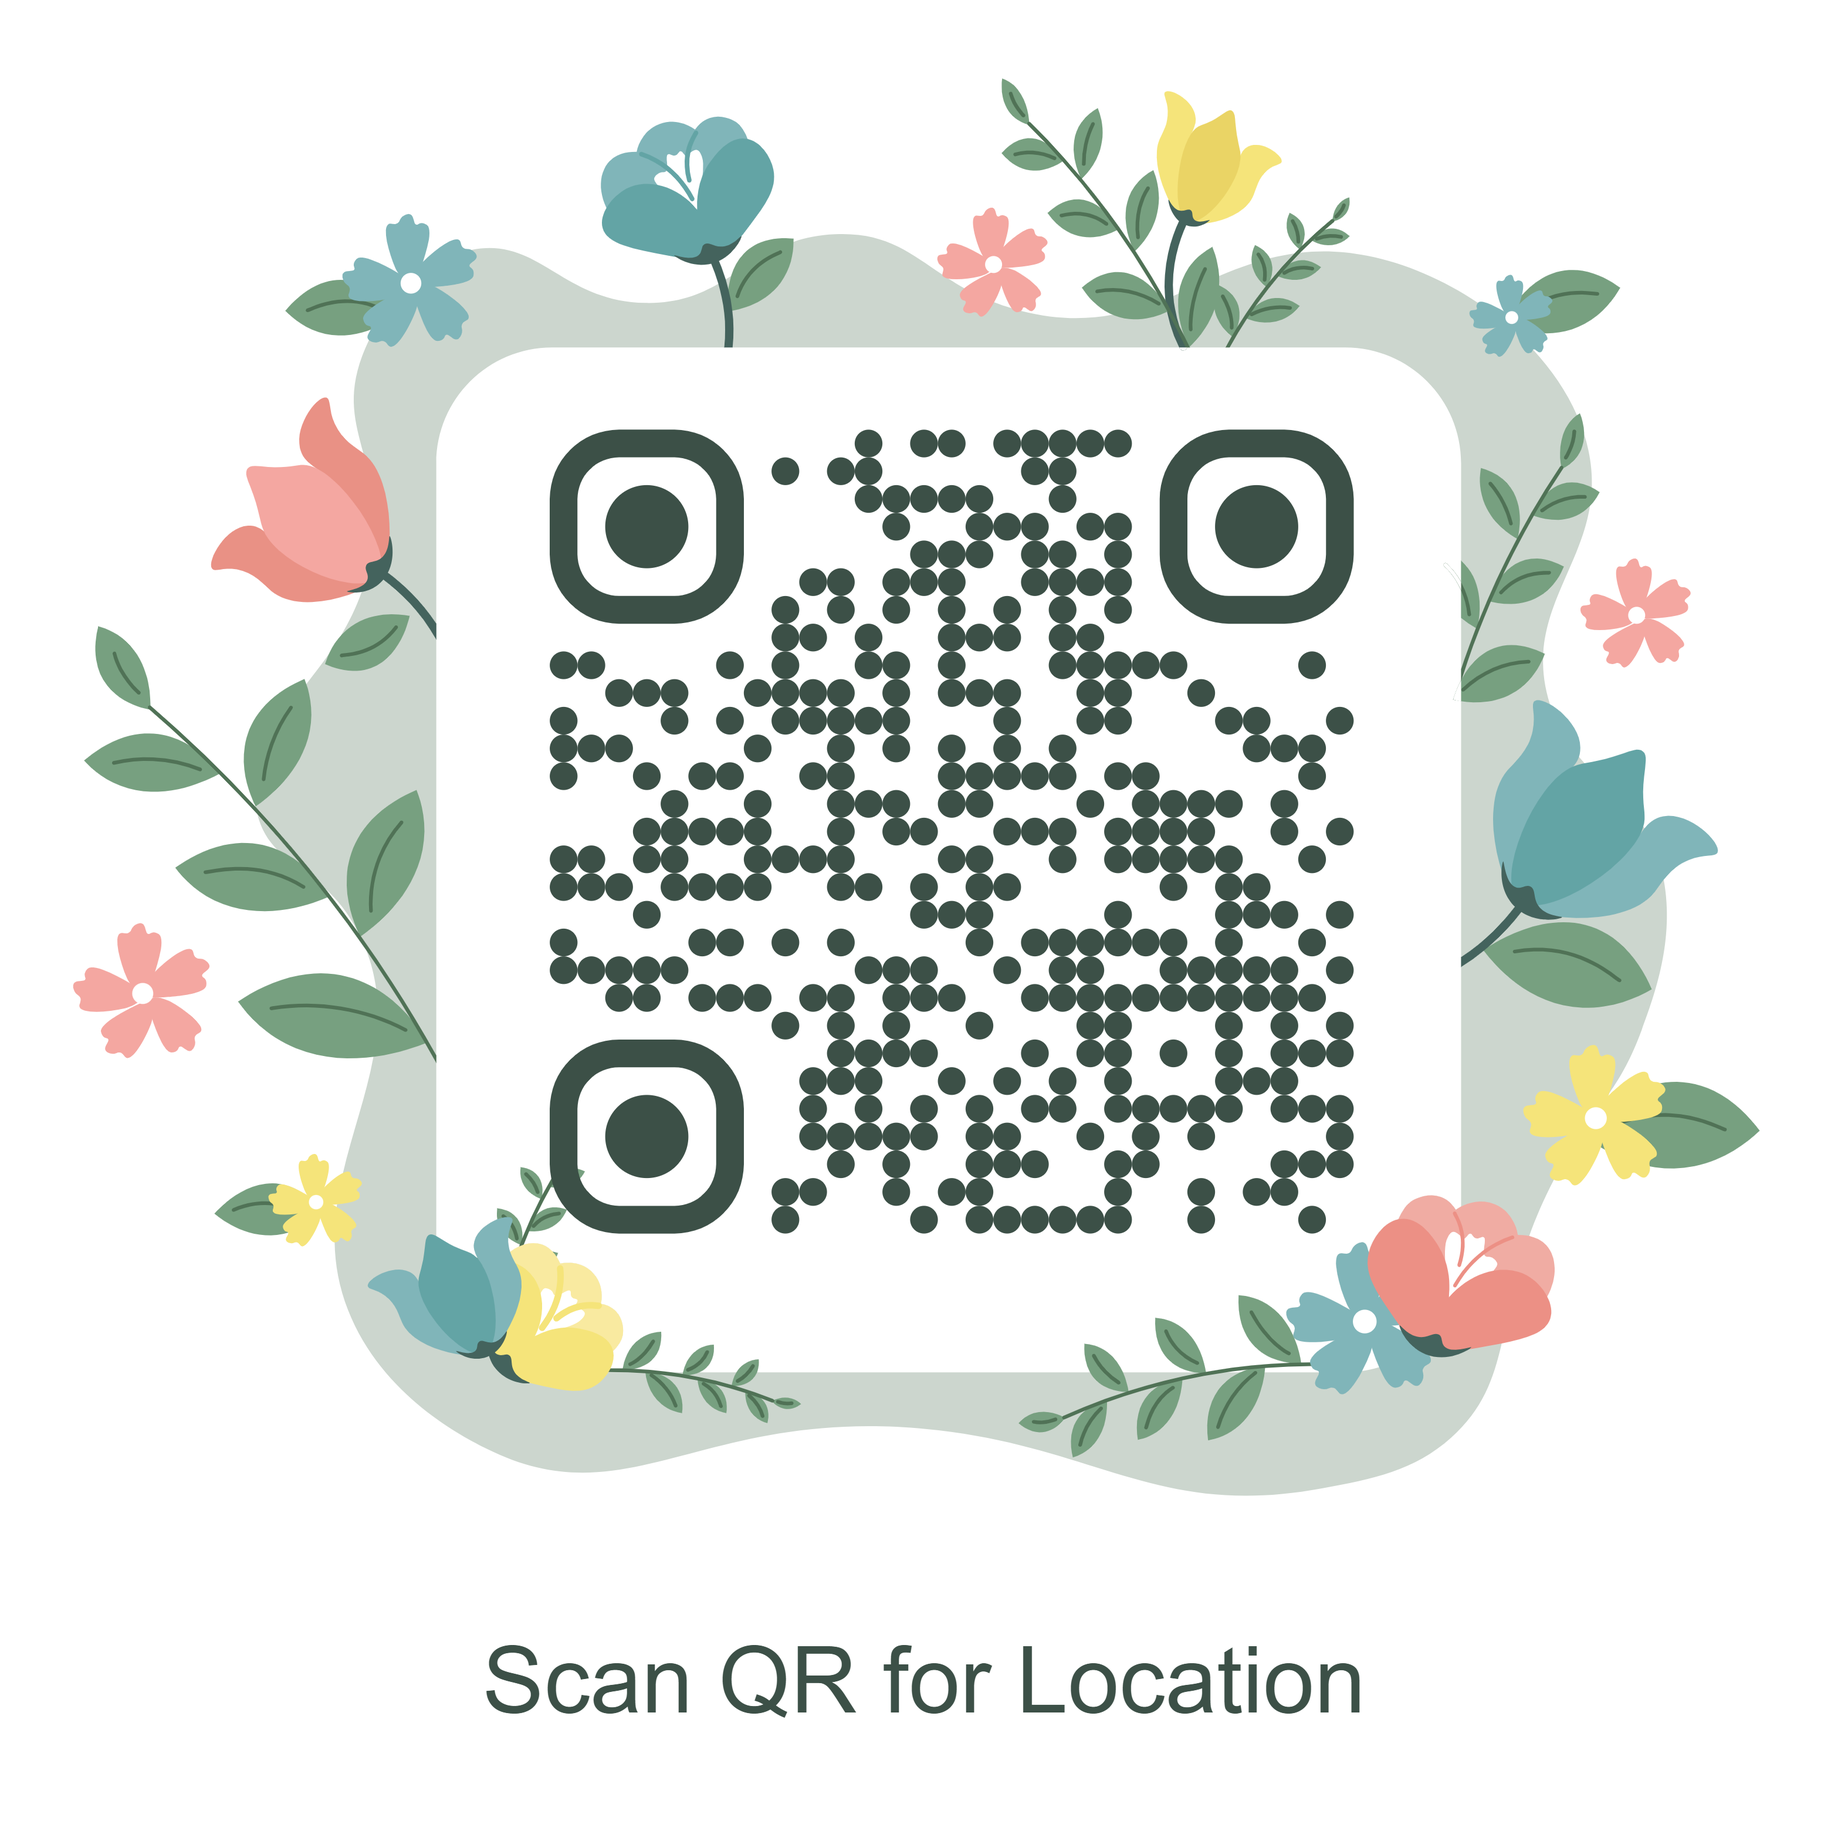
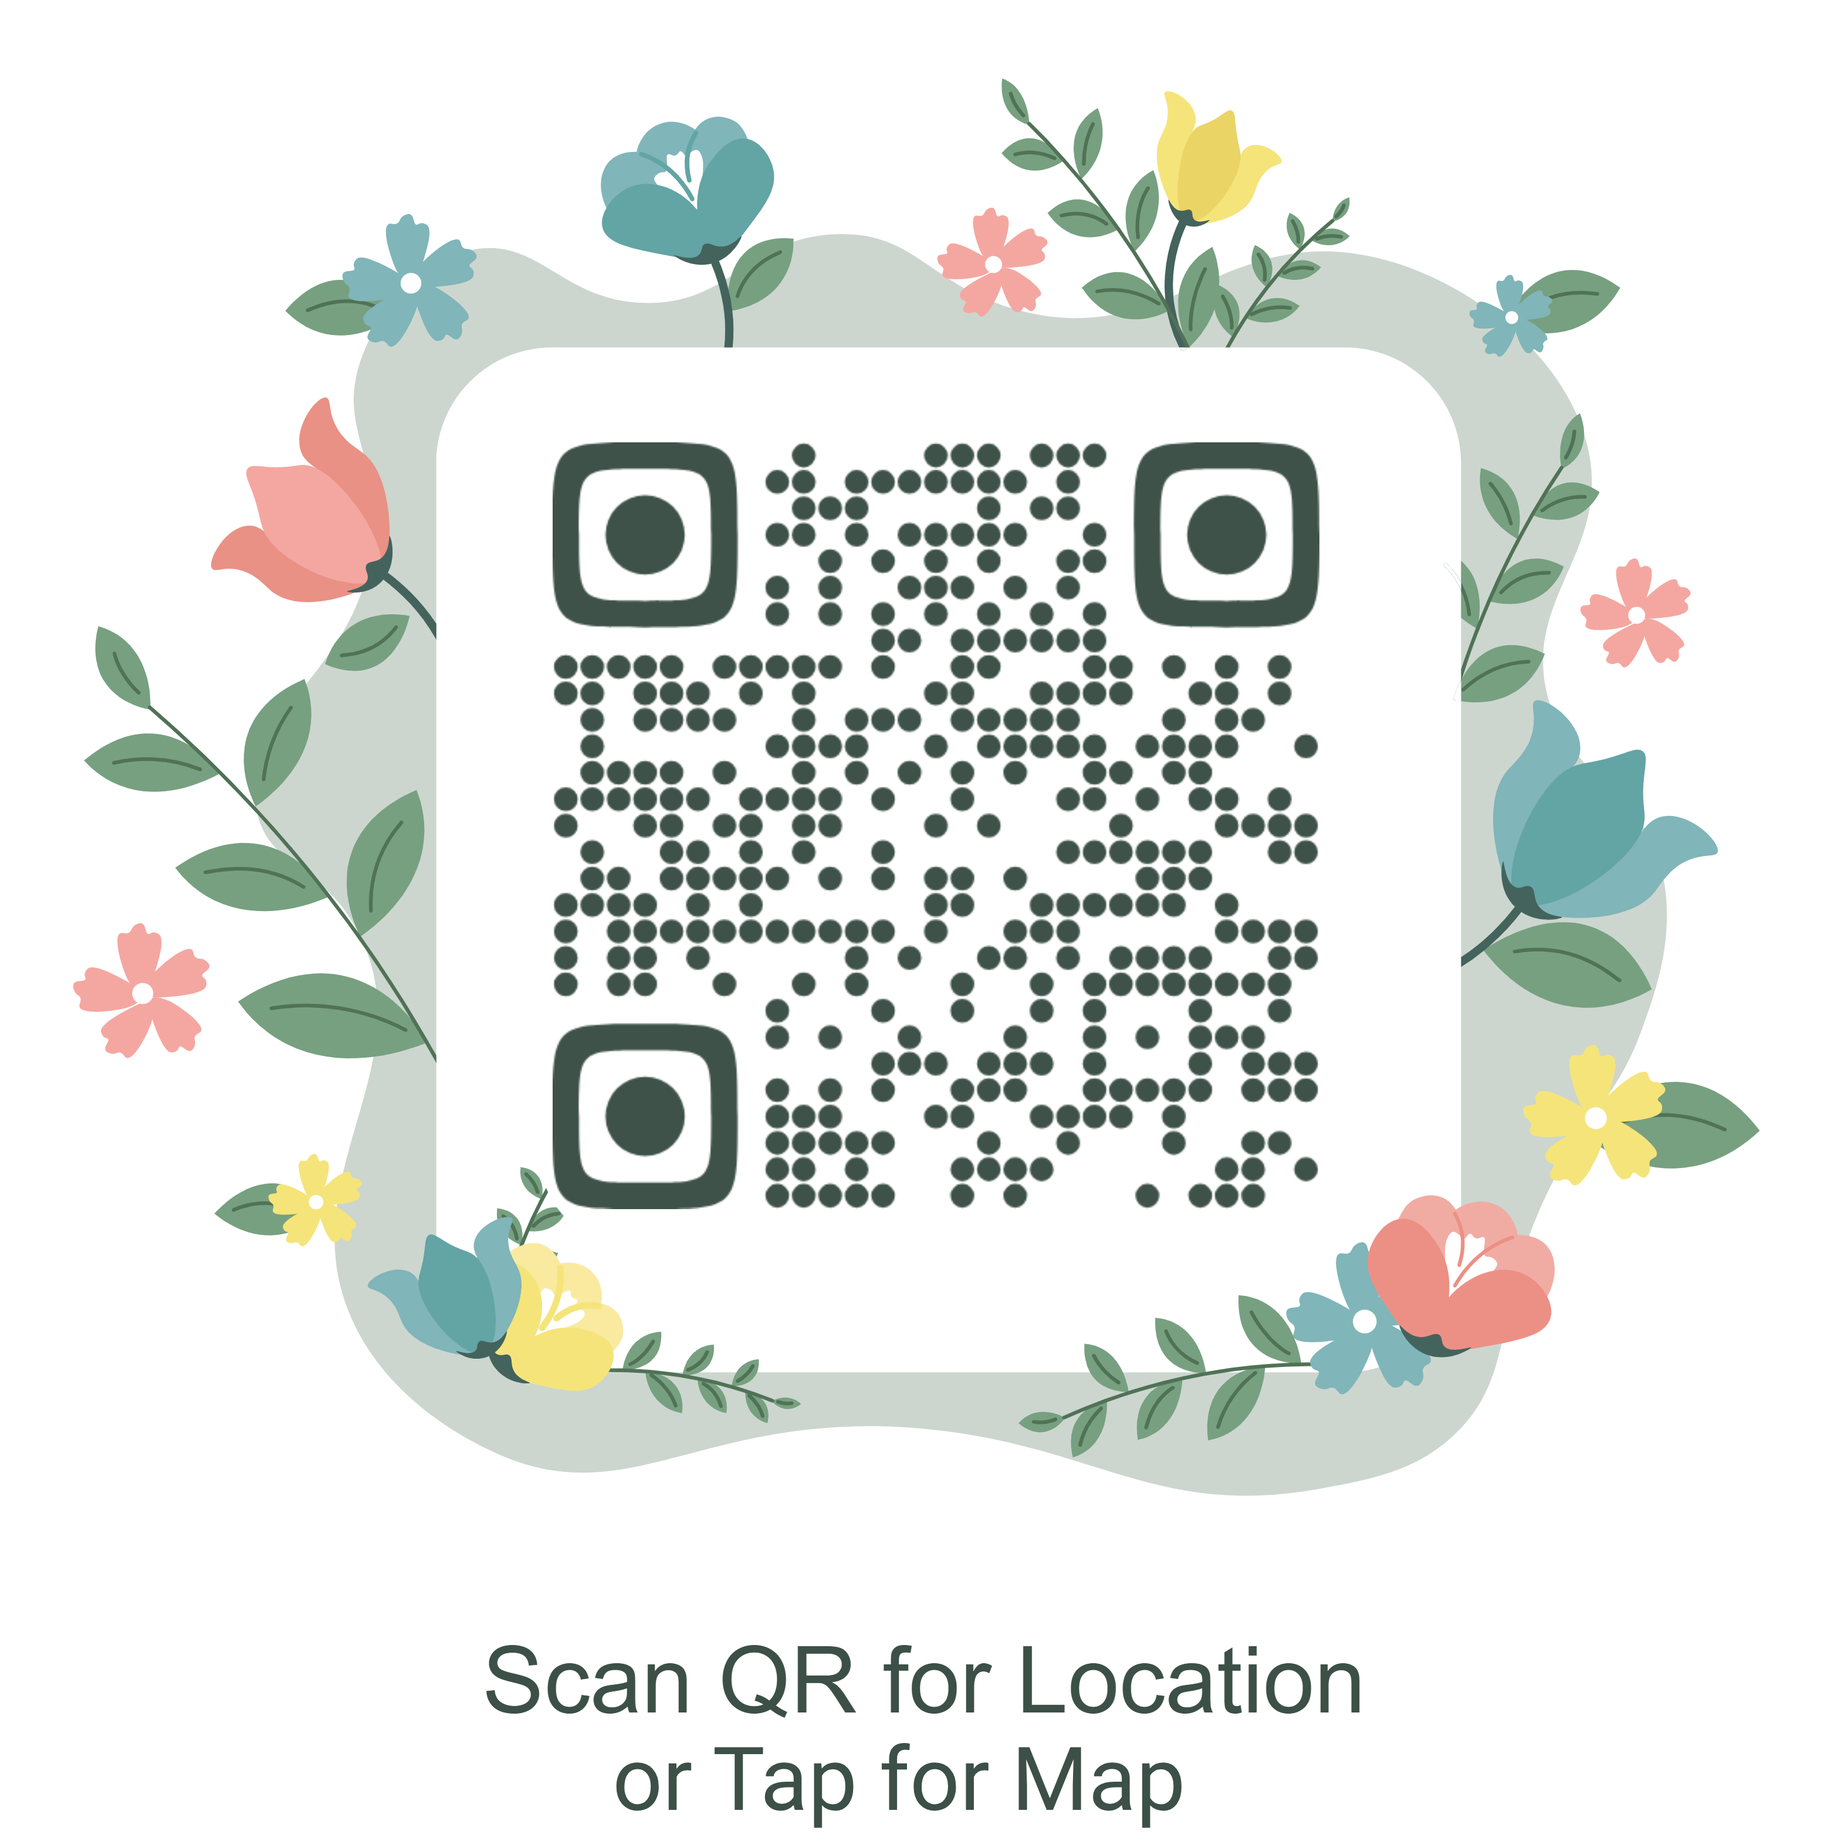
web update 4 fe

Changed region(s): [[0.28, 0.2178, 0.7467, 0.6844], [0.3422, 0.9333, 0.6533, 0.9956]]

diff --git a/index.html b/index.html
@@ -66,10 +66,10 @@
                     <img class="position-absolute w-100 h-100" src="img/carousel-1.jpg" style="object-fit: cover;">
                     <div class="carousel-caption d-flex flex-column align-items-center justify-content-between">
                         <div class="p-3" style="max-width: 900px;">
-                            <h1 class="display-1 font-secondary text-white mt-n3 mb-md-4">Lingaraj <img src="./img/infinity.png"> Roopa</h1>
+                            <h1 class="display-1 font-secondary text-white mt-n3 mb-md-4 carousel-font-lr">Lingaraj <img src="./img/infinity.png"> Roopa</h1>
                         <div class="d-flex flex-column align-items-center justify-content-center">
                             
-                            <div class="d-inline-block border-top border-bottom border-light py-3 px-4">
+                            <div class="d-inline-block border-top border-bottom border-light py-3 px-4 carousel-font-marriage" >
                                 <h5 class="text-uppercase font-weight-normal text-white m-0" style="letter-spacing: 2px;">We're getting married</h5>
                             </div>
                             <div class="d-inline-block border-top border-bottom border-light py-2 px-4 mt-3">
@@ -87,13 +87,13 @@
                     <img class="position-absolute w-100 h-100" src="img/carousel-2.jpg" style="object-fit: cover;">
                     <div class="carousel-caption d-flex flex-column align-items-center justify-content-between">
                         <div class="p-3" style="max-width: 900px;">
-                            <h1 class="display-1 font-secondary text-white mt-n3 mb-md-4">Lingaraj <img src="./img/infinity.png"> Roopa</h1>
+                            <h1 class="display-1 font-secondary text-white mt-n3 mb-md-4 carousel-font-lr">Lingaraj <img src="./img/infinity.png"> Roopa</h1>
                         <div class="d-flex flex-column align-items-center justify-content-center">
                             
-                            <div class="d-inline-block border-top border-bottom border-light py-3 px-4">
+                            <div class="d-inline-block border-top border-bottom border-light py-3 px-4 carousel-font-marriage" >
                                 <h5 class="text-uppercase font-weight-normal text-white m-0" style="letter-spacing: 2px;">We're getting married</h5>
                             </div>
-                            <div class="d-inline-block border-top border-bottom border-light py-2 px-4 mt-3">
+                            <div class="d-inline-block border-top border-bottom border-light py-2 px-4 mt-3 ">
                                 <h6 class="text-uppercase font-weight-bold text-white m-0" style="letter-spacing: 2px;">18 Feb 2024</h6>
                             </div>
                         </div>
@@ -163,12 +163,12 @@
                     </div> 
                 </div>
                 <div class="col-md-6 p-0" style="min-height: 400px;display: flex;justify-content: center;align-items: center;background-color: #EDF5F7 !important;">
-                    <img class="" src="img/about-groom.jpg"style="object-fit: cover;width: 350px;height: 350px;border-radius: 50%;">
+                    <img class="about-groom" src="img/about-groom.jpg"style="object-fit: cover;width: 350px;height: 350px;border-radius: 50%;">
                 </div>
             </div>
             <div class="row m-0">
                 <div class="col-md-6 p-0" style="min-height: 400px;display: flex;justify-content: center;align-items: center;background-color: #EDF5F7 !important;">
-                    <img class="" src="img/about-bride.jpg" style="object-fit: cover;width: 350px;height: 350px;border-radius: 50%;">
+                    <img class="about-bride" src="img/about-bride.jpg" style="object-fit: cover;width: 350px;height: 350px;border-radius: 50%;">
                 </div>
                 <div class="col-md-6 p-0 text-center text-md-left">
                     <div class="h-100 d-flex flex-column justify-content-center bg-secondary p-5">
@@ -201,7 +201,7 @@
             <div class="container timeline position-relative p-0">
                 <div class="row">
                     <div class="col-md-6 text-center text-md-right">
-                        <img class="img-fluid mr-md-3" src="img/story-1.jpg" alt="">
+                        <img class="img-fluid mr-md-3" src="img/story_first_meet.jpg" alt="first_meet" style="width: 300px;height: 300px">
                     </div>
                     <div class="col-md-6 text-center text-md-left">
                         <div class="h-100 d-flex flex-column justify-content-center bg-secondary p-4 ml-md-3">
@@ -220,12 +220,12 @@
                         </div>
                     </div>
                     <div class="col-md-6 text-center text-md-left">
-                        <img class="img-fluid ml-md-3" src="img/story-2.jpg" alt="">
+                        <img class="img-fluid ml-md-3" src="img/story_first_date.jpg" alt="" style="width: 300px;height: 300px">
                     </div>
                 </div>
                 <div class="row">
                     <div class="col-md-6 text-center text-md-right">
-                        <img class="img-fluid mr-md-3" src="img/story-3.jpg" alt="">
+                        <img class="img-fluid mr-md-3" src="img/story_proposal.jpg" alt="Proposal" style="width: 300px;height: 300px">
                     </div>
                     <div class="col-md-6 text-center text-md-left">
                         <div class="h-100 d-flex flex-column justify-content-center bg-secondary p-4 ml-md-3">
@@ -244,7 +244,7 @@
                         </div>
                     </div>
                     <div class="col-md-6 text-center text-md-left">
-                        <img class="img-fluid ml-md-3" src="img/story-4.jpg" alt="">
+                        <img class="img-fluid ml-md-3" src="img/story_engagement.jpg" alt="" style="width: 300px;height: 300px"> 
                     </div>
                 </div>
             </div>
@@ -321,66 +321,30 @@
                 <h1 class="font-secondary display-4">Scan for Location</h1>
                 <i class="far fa-heart text-dark"></i>
             </div>
-            <div class="row m-0 mb-4 mb-md-0 pb-2 pb-md-0 d-flex justify-content-center image-qr-div">
-               
+            <div class="row m-0 mb-4 mb-md-0 pb-2 pb-md-0 d-flex flex-column align-items-center justify-content-center image-qr-div">
+                <a href="#rsvp">
                    <img class="image-qr"  src="./img/qrcode_transparent.png">
-                
-            </div>
-           
+                   
+                   </a>
+                </div>
         </div>
     </div>
     <!-- QR End -->
 
 <!-- Gallery Start -->
-<div class="container-fluid bg-gallery" id="gallery" style="padding: 120px 0; margin: 90px 0;">
+<div class="container-fluid bg-dark" id="gallery" style="padding: 120px 0; margin: 90px 0;">
     <div class="section-title position-relative text-center" style="margin-bottom: 120px;">
         <h6 class="text-uppercase text-primary mb-3" style="letter-spacing: 3px;">Gallery</h6>
         <h1 class="font-secondary display-4 text-white">Our Photo Gallery</h1>
         <i class="far fa-heart text-white"></i>
     </div>
-    <div class="owl-carousel gallery-carousel">
-        <div class="gallery-item">
-            <img class="img-fluid w-100" src="img/gallery-1.jpg" alt="">
-            <a href="img/gallery-1.jpg" data-lightbox="gallery">
-                <i class="fa fa-2x fa-plus text-white"></i>
-            </a>
-        </div>
-        <div class="gallery-item">
-            <img class="img-fluid w-100" src="img/gallery-2.jpg" alt="">
-            <a href="img/gallery-2.jpg" data-lightbox="gallery">
-                <i class="fa fa-2x fa-plus text-white"></i>
-            </a>
-        </div>
-        <div class="gallery-item">
-            <img class="img-fluid w-100" src="img/gallery-3.jpg" alt="">
-            <a href="img/gallery-3.jpg" data-lightbox="gallery">
-                <i class="fa fa-2x fa-plus text-white"></i>
-            </a>
-        </div>
-        <div class="gallery-item">
-            <img class="img-fluid w-100" src="img/gallery-4.jpg" alt="">
-            <a href="img/gallery-4.jpg" data-lightbox="gallery">
-                <i class="fa fa-2x fa-plus text-white"></i>
-            </a>
-        </div>
-        <div class="gallery-item">
-            <img class="img-fluid w-100" src="img/gallery-5.jpg" alt="">
-            <a href="img/gallery-5.jpg" data-lightbox="gallery">
-                <i class="fa fa-2x fa-plus text-white"></i>
-            </a>
-        </div>
-        <div class="gallery-item">
-            <img class="img-fluid w-100" src="img/gallery-6.jpg" alt="">
-            <a href="img/gallery-6.jpg" data-lightbox="gallery">
-                <i class="fa fa-2x fa-plus text-white"></i>
-            </a>
-        </div>
+    <div class="owl-carousel gallery-carousel" id="gallery-pics">
     </div>
 </div>
 <!-- Gallery End -->
 
     <!-- Friends & Family Start -->
-    <div class="container-fluid py-5" id="family">
+    <!-- <div class="container-fluid py-5" id="family">
         <div class="container pt-5 pb-3">
             <div class="section-title position-relative text-center">
                 <h6 class="text-uppercase text-primary mb-3" style="letter-spacing: 3px;">Friends & Family</h6>
@@ -488,7 +452,7 @@
                 </div>
             </div>
         </div>
-    </div>
+    </div> -->
     <!-- Friends & Family End -->
 
 
@@ -502,7 +466,11 @@
                 <h1 class="font-secondary display-4">Join Our Party</h1>
                 <i class="far fa-heart text-dark"></i>
             </div>
-          
+            <div class="row">
+                
+            <iframe src="https://www.google.com/maps/embed?pb=!1m18!1m12!1m3!1d989.0953727991861!2d75.34494721802224!3d15.551472648856786!2m3!1f0!2f0!3f0!3m2!1i1024!2i768!4f13.1!3m3!1m2!1s0x3bb8e9e3bfab2d11%3A0xb44a65286663bc2f!2sAppaji%20Garden%20Restaurant!5e0!3m2!1sen!2sin!4v1707072642942!5m2!1sen!2sin" width="100%" height="400" style="border:0;" allowfullscreen="" loading="lazy" referrerpolicy="no-referrer-when-downgrade"></iframe>
+                </div>
+                
         </div>
     </div>
     <!-- RSVP End -->
@@ -516,17 +484,17 @@
                 <i class="far fa-heart text-white"></i>
             </div>
      
-            <div class="d-flex justify-content-center py-2">
-                <p class="text-white" href="#">info@example.com</p>
+            <div class="d-flex justify-content-center py-2 contact-details" style="font-size: 20px;">
+                <p class="text-white" href="#">Lingaraj</p>
                 <span class="px-3">|</span>
-                <p class="text-white" href="#">+012 345 6789</p>
+                <p class="text-white" href="#">+91 898 332 2335</p>
             </div>
-            <p class="m-0">&copy; <a class="text-primary" href="#">Domain Name</a>. Designed by <a class="text-primary" href="https://htmlcodex.com">HTML Codex</a>
+            <p class="m-0">&copy; <a class="text-primary mr-2" href="http://www.leanbeast.in/" target="_blank"> <span class="text-white" >Website by </span>Vignesh G.</a> Template sponser <a class="text-primary" href="https://htmlcodex.com">HTML Codex</a>
             </p>
         </div>
     </div>
     <!-- Footer End -->
-
+<div id="myArr"></div>
 
     <!-- Scroll to Bottom -->
     <i class="fa fa-2x fa-angle-down text-white scroll-to-bottom"></i>
@@ -540,13 +508,15 @@
     <script src="https://stackpath.bootstrapcdn.com/bootstrap/4.4.1/js/bootstrap.bundle.min.js"></script>
     <script src="lib/easing/easing.min.js"></script>
     <script src="lib/waypoints/waypoints.min.js"></script>
+    <script src="./js/photolist.js"></script>
+    <script src="js/scripts.min.js"></script>
     <script src="lib/owlcarousel/owl.carousel.min.js"></script>
     <script src="lib/isotope/isotope.pkgd.min.js"></script>
     <script src="lib/lightbox/js/lightbox.min.js"></script>
 
     <!-- Template Javascript -->
+    
     <script src="js/main.js"></script>
-    <script src="js/scripts.min.js"></script>
 
 </body>
 

diff --git a/js/scripts.min.js b/js/scripts.min.js
@@ -1,4 +1,5 @@
 
+
       countDownDate = new Date("Feb 17, 2024 19:00:00").getTime(),
       x = setInterval(function () {
         var now = new Date().getTime(),
@@ -21,3 +22,20 @@
               "Wohoo! Celebrations"));
       }, 1e3);
    
+
+      console.log("Photo list is ", window.PHOTO_LIST);
+
+    //   window.PHOTO_LIST.forEach(function(i,j){
+    //     console.log("i ", i);
+    //     console.log("j ", j);
+    //     let picDivTag = document.createElement("div");
+    //         picDivTag.className="gallery-item";
+    //         let documentFragment = document.createRange().createContextualFragment(`<img class="img-fluid w-100" src="img/gallery-${j+1}.jpg" alt="">
+    //     <a href="img/gallery-${j+1}.jpg" data-lightbox="gallery">
+    //         <i class="fa fa-2x fa-plus text-white"></i>
+    //     </a>`)
+    // picDivTag.appendChild(documentFragment)
+    //     document.querySelector("#gallery-pics").append(picDivTag);
+    //   })
+
+    

diff --git a/css/style.css b/css/style.css
@@ -1847,6 +1847,11 @@ pre code {
   .table-responsive-lg > .table-bordered {
     border: 0;
   }
+  .about-groom, .about-bride {
+    width: 300px !important;
+    height: 300px !important;
+    display: inline-block;
+  }
 }
 
 @media (max-width: 1199.98px) {
@@ -9772,5 +9777,25 @@ a.text-dark:hover, a.text-dark:focus {
 @media (max-width: 650px) {
   .image-qr{
     width: 90%;
+  }
+}
+
+@media (max-width: 397px) {
+  .carousel-font-lr{
+    font-size: 2rem;
+  }
+  .carousel-font-marriage{
+    padding: 10px !important;
+    font-size: 12px !important;
+    margin-top: 15px;
+    margin-bottom: 5px;
+  }
+  .about-groom, .about-bride {
+    width: 280px !important;
+    height: 280px !important;
+    display: inline-block;
+  }
+  .contact-details{
+    font-size: 18px !important;
   }
 }

diff --git a/js/photolist.js b/js/photolist.js
@@ -1,0 +1,8 @@
+window.PHOTO_LIST = [
+     "one",
+     "two",
+     "three",
+     "four",
+     "five",
+     "six"
+]
